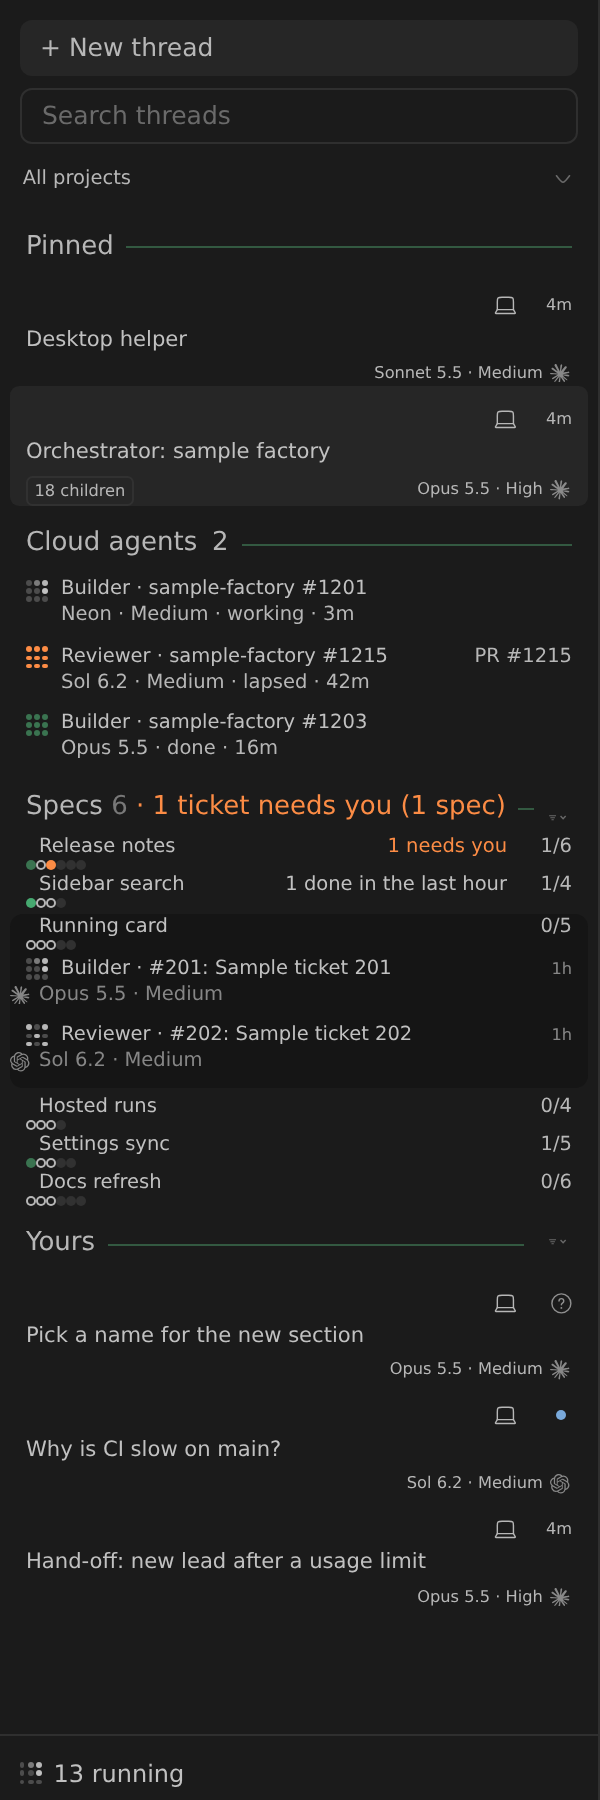
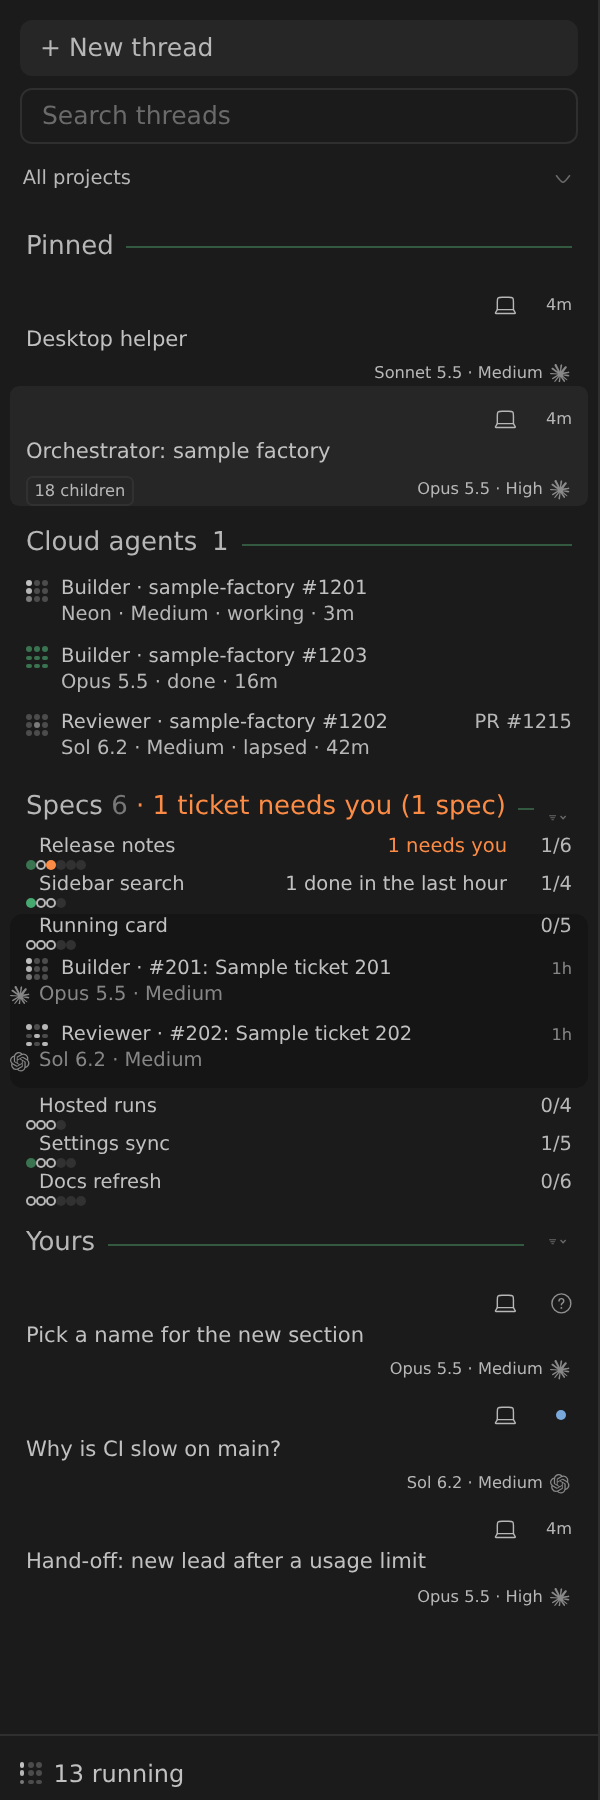
#234: green separate agents budget and fix Cloud agent status

Changed region(s): [[0.03, 0.3111, 0.63, 0.4356], [0.9, 0.3422, 0.93, 0.4044], [0.03, 0.5289, 0.06, 0.56]]

diff --git a/wizbar/tools/specs-producer/producer.ts b/wizbar/tools/specs-producer/producer.ts
@@ -13,7 +13,7 @@
 // requests. Any failed read, or a scan that would need more, writes nothing: the
 // last file stays and the run exits 1 naming the reason. Otherwise the file is
 // written whole (temp file, then rename) with `generatedAt` the run's time.
-// The agents scan uses the remaining requests and publishes independently.
+// The agents scan has its own 20-request budget and publishes independently.
 import { execFile } from "node:child_process";
 import { link, mkdir, readFile, rename, rm, writeFile } from "node:fs/promises";
 import { join } from "node:path";
@@ -29,9 +29,9 @@ export interface GitHubResponse { status: number; etag: string | null; next: str
 /** One REST read of `path` (relative to the API root), conditional when `etag` is not null. */
 export type GitHubRequest = (path: string, etag: string | null) => Promise<GitHubResponse>;
 /** A run either wrote the whole file, or wrote nothing and says why. */
-/** `unchanged`: requests GitHub answered 304. They count toward `BUDGET`, not toward GitHub's rate limit. */
+/** `unchanged`: requests GitHub answered 304. They count toward the scan budget, not GitHub's rate limit. */
 type AgentsRun = { status: "wrote"; count: number; truncated: number; unknownAuthors: number; mapUnavailable: boolean } | { status: "kept"; reason: string };
-export type RunResult = { ok: true; calls: number; specs: number; unchanged: number; agents: AgentsRun } | { ok: false; calls: number; error: string };
+export type RunResult = { ok: true; calls: number; specs: number; unchanged: number; agentsCalls: number; agentsUnchanged: number; agents: AgentsRun } | { ok: false; calls: number; error: string };
 
 /** v1 as before #162, a later ticket written as needs-you, so a WizBar from before #162 keeps working (#164 R1). */
 export const OUTPUT = join(".openwiz", "specs.v1.json");
@@ -41,6 +41,7 @@ const AGENTS_CACHE = join(".openwiz", "agents.v1.etags.json");
 export const CACHE = join(".openwiz", "specs.v1.etags.json");
 /** Requests per run (the ticket's "under 60"). A scan that needs more fails loudly. */
 export const BUDGET = 59;
+const AGENTS_BUDGET = 20;
 
 type State = "done" | "building" | "review" | "needs-you" | "yours-later" | "held" | "not-started";
 /** `updatedAt` (#183, v2 only): the issue's `updated_at`, its last activity; absent when the answer has none. */
@@ -356,12 +357,13 @@ export async function runOnce(options: { home: string; repositories: readonly st
       [join(options.home, OUTPUT_V2), `${JSON.stringify({ schema: "openwiz.specs.v2", generatedAt, specs }, null, 2)}\n`],
     ]);
     await writeAllOrNothing([[cachePath, JSON.stringify({ version: 5, pages: reader.pages } satisfies Cache)]]);
-    const agentsReader = new Reader(options.request, await readCache(join(options.home, AGENTS_CACHE)), BUDGET - reader.calls,
-      `no requests left in the ${BUDGET}-request budget`);
+    const agentsReader = new Reader(options.request, await readCache(join(options.home, AGENTS_CACHE)), AGENTS_BUDGET,
+      `no requests left in the ${AGENTS_BUDGET}-request agents budget`);
     const agents = await scanAgents(agentsReader, options.home, repositories, options.authors ?? [], now, generatedAt, options.runMap);
     return {
       ok: true, calls: reader.calls + agentsReader.calls, specs: specs.length,
-      unchanged: reader.unchanged + agentsReader.unchanged, agents,
+      unchanged: reader.unchanged + agentsReader.unchanged,
+      agentsCalls: agentsReader.calls, agentsUnchanged: agentsReader.unchanged, agents,
     };
   } catch (error) {
     return { ok: false, calls: reader.calls, error: error instanceof Error ? error.message : String(error) };
@@ -427,7 +429,9 @@ async function main(argv: readonly string[]): Promise<void> {
         ...(result.agents.mapUnavailable ? ["run map unavailable"] : []),
       ].join(" · ")
       : `kept the last agents file: ${result.agents.reason}`;
-    process.stdout.write(`wrote ${join(home, OUTPUT_V2)} and ${join(home, OUTPUT)}: ${result.specs} specs, ${result.calls} requests (${result.unchanged} unchanged) · ${agents}\n`);
+    const specsUsage = `${result.calls - result.agentsCalls} of ${BUDGET} specs requests (${result.unchanged - result.agentsUnchanged} unchanged)`;
+    const agentsUsage = `${result.agentsCalls} of ${AGENTS_BUDGET} agents requests (${result.agentsUnchanged} unchanged)`;
+    process.stdout.write(`wrote ${join(home, OUTPUT_V2)} and ${join(home, OUTPUT)}: ${result.specs} specs, ${specsUsage} · ${agentsUsage} · ${agents}\n`);
   }
   else process.stderr.write(`kept the last file: ${result.error} (${result.calls} requests)\n`);
   process.exitCode = result.ok ? 0 : 1;

diff --git a/wizbar/src/agents/cloud.ts b/wizbar/src/agents/cloud.ts
@@ -6,6 +6,7 @@ import type { AgentsRead } from "./read";
 
 const roles = { builder: "Builder", reviewer: "Reviewer", fleet: "Fleet" } as const;
 const matrices = { working: "working", asking: "needs-you", done: "done", stopped: "idle" } as const;
+const isLive = (agent: GitHubAgent) => agent.live ?? isActiveNote(agent.state);
 
 const labelFor = (role: keyof typeof roles, repository: string, number: string | number) =>
   `${roles[role]} · ${repository.slice(repository.indexOf("/") + 1)} #${number}`;
@@ -37,24 +38,23 @@ export function cloudAgents(read: AgentsRead, specs: SpecsFileV4 | null, rows: r
   const snapshot = unseenSnapshot(read, specs, rows);
   if (!snapshot) return { status: "unavailable" };
   const ordered = [...snapshot.agents].sort((a, b) =>
-    Number(isActiveNote(b.state)) - Number(isActiveNote(a.state))
+    Number(isLive(b)) - Number(isLive(a))
       || Date.parse(b.updatedAt) - Date.parse(a.updatedAt) || b.commentId - a.commentId,
   );
   const format = (agent: GitHubAgent): CloudRow => {
     const number = issueNumber(agent.ticket);
     const pr = agent.pr ? pullPattern.exec(agent.pr) : null;
-    const review = agent.agent === "reviewer" ? pr : null;
-    const state = isActiveNote(agent.state) && agent.live === false ? "lapsed" : agent.state;
+    const state = isActiveNote(agent.state) && !isLive(agent) ? "lapsed" : agent.state;
     return {
-      label: labelFor(agent.agent, review?.[1] ?? agent.repository, review?.[2] ?? number),
+      label: labelFor(agent.agent, agent.repository, number),
       detail: `${cloudModel(agent.model)} · ${state} · ${relativeTimeLabel(Date.parse(agent.updatedAt), now)}`,
-      matrix: matrices[agent.state],
+      matrix: state === "lapsed" ? "idle" : matrices[agent.state],
       pull: pr ? `PR #${pr[2]}` : null,
       url: agent.pr ?? `https://github.com/${agent.repository}/issues/${number}`,
     };
   };
   return {
-    status: "ready", active: ordered.filter((agent) => isActiveNote(agent.state)).length,
+    status: "ready", active: ordered.filter(isLive).length,
     rows: ordered.map(format),
     more: snapshot.more.map(({ role, repository, number }) => ({ label: labelFor(role, repository, number) })),
   };

diff --git a/wizbar/tools/specs-producer/agents.test.ts b/wizbar/tools/specs-producer/agents.test.ts
@@ -135,12 +135,20 @@ it("writes all five repositories' agents and the run map after specs use all 59 
   const { home, file } = await fixture();
   const repositories = [FLEET, "example/two", "example/three", "example/four", "example/five"];
   const answers = budgetAnswers(repositories, 49);
+  const authors = Buffer.from("## GitHub identity\n| Record authors | `sample-builder` |\n").toString("base64");
+  for (const repository of repositories) {
+    answers.set(`repos/${repository}/contents/docs/agents/fleet.md`, { body: { type: "file", encoding: "base64", content: authors } });
+  }
+  // Four three-page lists, one two-page list, five author lookups and the run map.
+  const last = comments.replace(FLEET, repositories[4]);
+  answers.set(`${last}&page=2`, { body: answers.get(`${last}&page=3`)!.body });
+  answers.delete(`${last}&page=3`);
   const map = `repos/${FLEET}/issues/comments/42`;
   answers.set(map, { body: { body: ["```json", JSON.stringify({ state: { repo: FLEET, threads: {} }, runs: {} }), "```"].join("\n") } });
   const github = fakeGitHub(answers);
 
-  expect(await runOnce({ home, repositories, now, authors: ["sample-builder"], runMap: `${FLEET}#42`, request: github.request }))
-    .toMatchObject({ ok: true, specs: 49, calls: 75, agentsCalls: 16, agents: { status: "wrote", count: 5 } });
+  expect(await runOnce({ home, repositories, now, runMap: `${FLEET}#42`, request: github.request }))
+    .toMatchObject({ ok: true, specs: 49, calls: 79, agentsCalls: 20, agents: { status: "wrote", count: 5 } });
   expect(github.calls.slice(0, 59).every(({ path }) => !path.includes("/issues/comments"))).toBe(true);
   expect(github.calls.at(-1)?.path).toBe(map);
   expect(JSON.parse(await readFile(file, "utf8"))).toMatchObject({ runMap: [], agents: repositories.map((repository) => ({ repository })) });

diff --git a/wizbar/tools/specs-producer/producer.test.ts b/wizbar/tools/specs-producer/producer.test.ts
@@ -276,7 +276,7 @@ describe("P1: the request budget", () => {
     // One spec fewer fits exactly: 59 requests.
     answers.set(`repos/${FLEET}/issues?state=open&per_page=100`, { body: specs.slice(0, 57) });
     expect(await runOnce({ home: dir, repositories: [FLEET], request: fakeGitHub(answers).request, now: () => NOW }))
-      .toMatchObject({ ok: true, calls: 59, specs: 57, unchanged: 0 });
+      .toMatchObject({ ok: true, calls: 60, agentsCalls: 1, specs: 57, unchanged: 0 });
   });
 });
 
@@ -350,7 +350,7 @@ describe("#153: --gh, a missing gh and the unchanged count", () => {
     const dir = await home();
     const gh = await fakeGh(dir);
     const args = ["--home", dir, "--repo", FLEET, "--repo", TOOLS, "--gh", gh];
-    expect((await run(args, servicePath)).stdout).toBe(`wrote ${outputV2(dir)} and ${output(dir)}: 0 specs, 6 requests (0 unchanged) · wrote agents.v1.json: 0 live agents · no record authors set for 2 repositories\n`);
-    expect((await run(args, servicePath)).stdout).toBe(`wrote ${outputV2(dir)} and ${output(dir)}: 0 specs, 6 requests (4 unchanged) · wrote agents.v1.json: 0 live agents · no record authors set for 2 repositories\n`);
+    expect((await run(args, servicePath)).stdout).toBe(`wrote ${outputV2(dir)} and ${output(dir)}: 0 specs, 4 of 59 specs requests (0 unchanged) · 2 of 20 agents requests (0 unchanged) · wrote agents.v1.json: 0 live agents · no record authors set for 2 repositories\n`);
+    expect((await run(args, servicePath)).stdout).toBe(`wrote ${outputV2(dir)} and ${output(dir)}: 0 specs, 4 of 59 specs requests (4 unchanged) · 2 of 20 agents requests (0 unchanged) · wrote agents.v1.json: 0 live agents · no record authors set for 2 repositories\n`);
   });
 });

diff --git a/wizbar/src/agents/match.ts b/wizbar/src/agents/match.ts
@@ -119,6 +119,11 @@ export function unseenSnapshot(
     const key = matchRun(agent, pullsByTicket);
     const mapped = key ? runs.get(key) : undefined;
     if (key) noted.add(key);
+    if (agent.agent === "reviewer" && !agent.pr) {
+      for (const pull of pullsByTicket.get(agent.ticket.toLowerCase()) ?? []) {
+        noted.add(runKey("reviewer", agent.repository, pull));
+      }
+    }
     return !(mapped?.seen ?? fallback.has(claimKey(agent.ticket, agent.agent)));
   });
   const more = [...runs].flatMap(([key, { entry, seen }]) => seen || noted.has(key) ? [] : [entry]);

diff --git a/wizbar/tools/specs-producer/README.md b/wizbar/tools/specs-producer/README.md
@@ -2,9 +2,9 @@
 
 Writes two files under your factory home, the files WizBar's Specs section reads: `.openwiz/specs.v2.json` (schema `openwiz.specs.v2`, v1 plus the later state, #162) and `.openwiz/specs.v1.json` (schema `openwiz.specs.v1`, exactly as before #162, a later ticket written as `needs-you`). A WizBar from #162 on reads both and uses v2 unless v1 is newer (#164 R3); an older WizBar reads v1. So the producer and WizBar can be updated in either order. Both files come from the same scan and are written together or not at all (#164 R1) ([contract section 1](../../contracts/specs-section.v1.md#1-the-specs-file)). It reads GitHub through your local `gh` login (REST only) and needs nothing else: Node 24 and `gh`, no packages.
 
-Each run is one complete scan. For each repository it reads the open issues (an issue with sub-issues is a running spec) and the open pull requests, then each spec's sub-issues (its tickets). Each page is a conditional request with the ETag and the page kept in `.openwiz/specs.v1.etags.json` (a cache from an older producer is dropped once, so the first run after an update reads every page afresh), so an unchanged page costs nothing against GitHub's rate limit: GitHub answers it `304 Not Modified`, which still counts as one of the run's 59 requests. The file is written whole (temp file, then rename) with `generatedAt` the run's time, or not at all: any failed read, or a scan that would need more than 59 requests, writes nothing, keeps the last file and exits 1 naming the reason. A repository you remove from `--repo` is gone from the file and the cache after the next successful run.
+Each run is one complete scan. For each repository it reads the open issues (an issue with sub-issues is a running spec) and the open pull requests, then each spec's sub-issues (its tickets). Each page is a conditional request with the ETag and the page kept in `.openwiz/specs.v1.etags.json` (a cache from an older producer is dropped once, so the first run after an update reads every page afresh), so an unchanged page costs nothing against GitHub's rate limit: GitHub answers it `304 Not Modified`, which still counts as one of the specs scan's 59 requests. The file is written whole (temp file, then rename) with `generatedAt` the run's time, or not at all: any failed read, or a scan that would need more than 59 requests, writes nothing, keeps the last file and exits 1 naming the reason. A repository you remove from `--repo` is gone from the file and the cache after the next successful run.
 
-**Capacity.** A run makes at most 59 requests, one per page of 100:
+**Capacity.** The specs scan makes at most 59 requests, one per page of 100:
 
 ```text
 requests = for each repository: ⌈open issues and pull requests / 100⌉ + ⌈open pull requests / 100⌉
@@ -23,8 +23,9 @@ With one repository under 100 open issues and pull requests, and specs of up to 
 
 ## GitHub agents
 
-After the specs scan, the producer uses the remaining request budget to write
-`.openwiz/agents.v1.json`. It reads at most three pages of recently updated
+After the specs scan, the producer uses a separate 20-request budget to write
+`.openwiz/agents.v1.json`. The budget covers author lookups, comment pages and
+the optional run map. It reads at most three pages of recently updated
 issue comments per repository, newest updates first, from a two-hour window.
 The request start rounds down to ten minutes for conditional reads.
 The producer caches those ETags separately in
@@ -32,8 +33,8 @@ The producer caches those ETags separately in
 authors for the run. Without these flags, each repository supplies its record
 authors in the GitHub identity table in `docs/agents/fleet.md`. A repository
 without a record author contributes no notes. A failed agents read or
-exhausted budget keeps the last agents file. Pass every product repository with
-`--repo`. Optionally pass `--run-map 'owner/name#comment-id'` to read the run map
+exhausted budget during the notes scan keeps the last agents file. Pass every
+product repository with `--repo`. Optionally pass `--run-map 'owner/name#comment-id'` to read the run map
 through the same `gh` login. A private run map needs the `repo` scope. Its data
 stays in the local snapshot. See the
 [agents file contract](../../contracts/agents.v1.md).
@@ -46,7 +47,12 @@ Use the factory home and repositories of your WizDeck factory binding (the `wizd
 node wizbar/tools/specs-producer/producer.ts --home /path/to/factory-home --repo owner/name [--repo owner/other] [--gh /path/to/gh] [--author login ...] [--run-map 'owner/name#comment-id']
 ```
 
-It prints `wrote …/.openwiz/specs.v2.json and …/.openwiz/specs.v1.json: N specs, M requests (K unchanged)`, for example `25 specs, 31 requests (29 unchanged)`. `K` is how many of the `M` requests GitHub answered 304 unchanged. The run line also reports the agents scan result. These requests count toward the 59-request budget, but not toward GitHub's rate limit. `--gh` is the `gh` to run, by default `gh` on `PATH`; a missing `gh` fails, keeps the last file and names `--gh` and `PATH`. WizBar calls a file older than 30 minutes stale, so run it on a timer.
+The run line reports each scan's usage and result, for example
+`49 specs, 59 of 59 specs requests (29 unchanged) · 20 of 20 agents requests (12 unchanged) · wrote agents.v1.json: 5 live agents`.
+A 304 response counts toward its scan's budget and does not consume GitHub's
+rate limit. `--gh` selects the executable, with `gh` on `PATH` as the default.
+WizBar considers a file older than 30 minutes stale, so run the producer on a
+timer.
 
 ## Run it every 10 minutes (systemd user timer)
 

diff --git a/wizbar/README.md b/wizbar/README.md
@@ -106,7 +106,8 @@ Pinned, snoozed, muted and settled matches stay on their shelves.
   `wizbar stats --json` reports the same rows in `unseen`.
 - **Cloud agents.** The sidebar lists GitHub agents with no matching desktop
   thread. It starts after Pinned and can be moved or collapsed. Working and
-  asking agents appear first, followed by recent done and stopped agents.
+  asking agents with live notes appear first and count in the header.
+  Lapsed, done and stopped agents follow by most recent update.
   Names link to GitHub. `wizbar agents [--json]` lists the same rows.
 - **The producer** adds each ticket's last activity (`updatedAt`, from the
   issue's `updated_at` in the answer it already reads, no added requests) to
@@ -155,8 +156,8 @@ Pinned, snoozed, muted and settled matches stay on their shelves.
   v2 on a tie; when neither is ready, it shows "Specs unavailable". So the
   producer and WizBar can be upgraded in either order. `--gh`
   names the `gh` to run (default: `gh` on `PATH`). Each run is one complete
-  specs scan, all or nothing. After writing both specs files, it uses the
-  remaining requests from the run's 59-request budget to write
+  specs scan, all or nothing, with up to 59 requests. After writing both
+  specs files, it uses a separate 20-request budget to write
   `.openwiz/agents.v1.json`. Repeat `--author <login>` to set record authors
   or use each repository's `Record authors` row in `docs/agents/fleet.md`.
   Pass `--repo` for each product repository and optionally

diff --git a/wizbar/contracts/agents.v1.md b/wizbar/contracts/agents.v1.md
@@ -24,9 +24,10 @@ home. See the [JSON schema](agents.v1.schema.json).
 
 The producer requests at most three pages of issue comments per repository,
 newest updates first. The request start rounds down to a ten-minute boundary.
-The agents scan uses the request budget left after specs. Failed note reads
-or exhausted budget keep the last agents file. A failed optional map read
-still publishes the notes.
+The agents scan has its own 20-request budget for author lookup, comment
+pages and the optional run map. The specs scan has a separate 59-request
+budget. Failed note reads or exhausted budget during the notes scan keep the
+last agents file. A failed optional map read still publishes the notes.
 
 WizBar reads the file by absolute path through the host's file API. A mapped
 agent is seen when its thread ID is known to the desktop, including archives.

diff --git a/docs/evidence/wizbar-0-7/g1/README.md b/docs/evidence/wizbar-0-7/g1/README.md
@@ -6,8 +6,8 @@
   pages. No run map was used for this artifact.
 - [Cloud agents sidebar](sidebar.png) rendered by the SDK fixture with the
   installed host stylesheet and headless Chromium. The section follows Pinned
-  and shows Neon, Sol and Opus with their state and age. Two working or asking
-  claims count in the section header.
+  and shows Neon, Sol and Opus with their state and age. Only the live working agent counts
+  in the header. The lapsed reviewer has the idle mark and a separate PR badge.
 - [Running card](running-card.png) from the grouped-card fixture. Sample kernel
   counts its desktop thread and GitHub builder. Other counts its GitHub
   reviewer. A Chromium scene with 100 desktop rows and two GitHub rows checked
